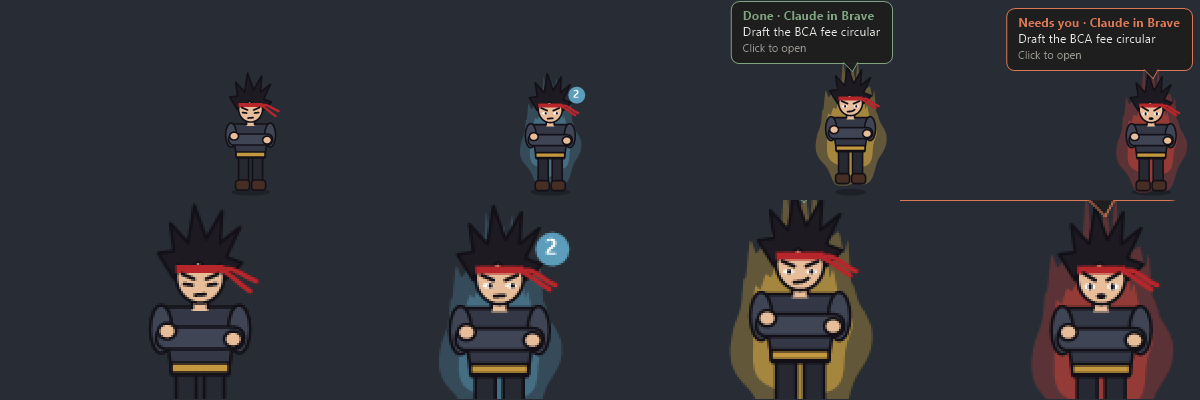
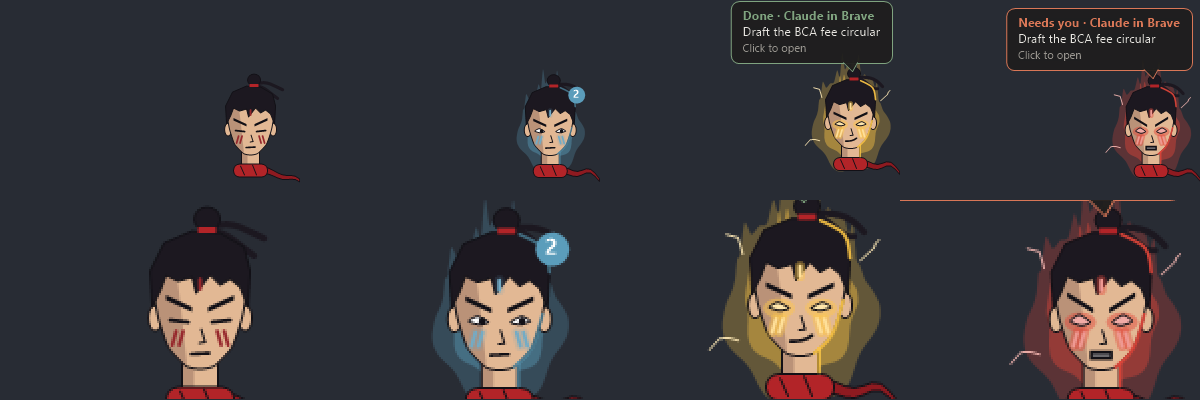
Redraw the desk pet as a fighter's face with a power-up of his own
The full-body figure read as a toy. The pet is now a close-up of an
original fighter: hair swept back into a topknot, war marks on his
cheeks and brow, a red scarf trailing in the aura's wind. His eyes stay
shut at rest. While a task works his marks glow blue. When one finishes
his eyes blaze gold with sparks, and when one needs you they burn red
with gritted teeth.

diff --git a/desktop/Pet.cs b/desktop/Pet.cs
@@ -1,15 +1,15 @@
-// The desk pet: a small fighter in a corner of the screen that shows what
+// The desk pet: a fighter's face in a corner of the screen that shows what
 // the task board knows without opening it.
 //
-// He stands with his arms crossed and his eyes shut while nothing runs. While
-// any Claude or ChatGPT task works, a blue aura burns around him. When one
-// finishes it flares gold, and when one needs you it pulses red, with a bubble
-// naming the task. The bubble stays until you click him, which brings that
+// His eyes stay shut while nothing runs. While any Claude or ChatGPT task
+// works, a blue aura burns around him and his war marks glow. When one
+// finishes the aura flares gold and his eyes blaze, and when one needs you it
+// all burns red, with a bubble naming the task. The bubble stays until you click him, which brings that
 // task's app forward. A tray balloon was the only signal before, and Windows
 // hides those under Do not disturb and drops them after a few seconds.
 //
 // The window is a layered window drawn with per-pixel alpha, so only the
-// fighter and his bubble catch the mouse and everything around them clicks
+// face and his bubble catch the mouse and everything around them clicks
 // through.
 
 using System;
@@ -28,18 +28,15 @@ public class PetForm : Form
 {
     enum Mood { Resting, Working, Done, Needs }
 
-    // The canvas, in pixels at 100% scaling. The fighter stands bottom right
+    // The canvas, in pixels at 100% scaling. His face sits bottom right
     // and the bubble sits above him, so the window can hug the screen corner.
-    const int W = 300, H = 200, Stand = 84;
+    const int W = 300, H = 200, Span = 84;
 
-    static readonly Color Skin = Color.FromArgb(232, 190, 154);
-    static readonly Color Hair = Color.FromArgb(30, 26, 34);
-    static readonly Color Coat = Color.FromArgb(52, 56, 70);
-    static readonly Color Sleeve = Color.FromArgb(64, 69, 86);
-    static readonly Color Trousers = Color.FromArgb(38, 40, 50);
-    static readonly Color Boots = Color.FromArgb(70, 46, 36);
-    static readonly Color Band = Color.FromArgb(182, 38, 42);
-    static readonly Color Belt = Color.FromArgb(196, 152, 62);
+    static readonly Color Skin = Color.FromArgb(226, 184, 148);
+    static readonly Color Hair = Color.FromArgb(28, 24, 32);
+    static readonly Color Scarf = Color.FromArgb(178, 36, 40);
+    static readonly Color ScarfDark = Color.FromArgb(142, 26, 32);
+    static readonly Color Mark = Color.FromArgb(150, 40, 44);
     static readonly Color Ink = Color.FromArgb(18, 16, 22);
     static readonly Color Blue = Color.FromArgb(91, 157, 187);
     static readonly Color Gold = Color.FromArgb(255, 200, 70);
@@ -293,18 +290,13 @@ public class PetForm : Form
             shake = (float)Math.Sin(t * 53) * 0.8f;
         }
 
-        float cx = W - 8 - Stand / 2f + shake, ground = H - 8;
-
-        using (SolidBrush b = new SolidBrush(Color.FromArgb(70, 0, 0, 0)))
-        {
-            float sw = 40 * (1 - lift / 30f);
-            g.FillEllipse(b, cx - sw / 2, ground - 4, sw, 7);
-        }
+        float cx = W - 8 - Span / 2f + shake, ground = H - 8;
 
         GraphicsState saved = g.Save();
         g.TranslateTransform(cx, ground - 2 - lift);
         if (aura != Color.Empty) DrawAura(g, t, aura, power);
-        DrawFighter(g, t, mood);
+        if (mood == Mood.Needs || (mood == Mood.Done && since < 3)) DrawSparks(g, t, aura, power);
+        DrawFace(g, t, mood, aura);
         g.Restore(saved);
 
         float top = ground - 2 - lift - 112;
@@ -319,7 +311,7 @@ public class PetForm : Form
         for (int layer = 0; layer < 2; layer++)
         {
             float s = layer == 0 ? 1f : 0.74f;
-            float rx = 36 * power * s, ry = 56 * power * s, cy = -50;
+            float rx = 40 * power * s, ry = 52 * power * s, cy = -62;
             PointF[] pts = new PointF[56];
             for (int i = 0; i < pts.Length; i++)
             {
@@ -336,117 +328,217 @@ public class PetForm : Form
         }
     }
 
-    // Origin at his feet, y going up as it goes negative.
-    void DrawFighter(Graphics g, double t, Mood mood)
+    // A close-up of his head, origin below the scarf, y going up as it goes
+    // negative. At rest his eyes are shut. With his power up the war marks on
+    // his cheeks and brow light in the aura's colour, and when a task finishes
+    // or needs you his eyes blaze with it too.
+    void DrawFace(Graphics g, double t, Mood mood, Color aura)
     {
-        bool charged = mood != Mood.Resting;
-        using (Pen line = new Pen(Ink, 1.6f))
+        bool blazing = mood == Mood.Done || mood == Mood.Needs;
+        float wind = mood == Mood.Resting ? 0.3f : 1f;
+        using (Pen line = new Pen(Ink, 1.5f))
         using (SolidBrush ink = new SolidBrush(Ink))
         using (SolidBrush skin = new SolidBrush(Skin))
+        using (SolidBrush shade = new SolidBrush(Color.FromArgb(55, 40, 10, 20)))
         {
             line.LineJoin = LineJoin.Round;
 
-            // Legs, planted apart, and boots.
-            using (SolidBrush b = new SolidBrush(Trousers))
+            // The topknot's tail and the scarf's ends stream out behind him.
+            float sway = (float)Math.Sin(t * (1.5 + 5 * wind)) * 3 * wind;
+            using (Pen tail = new Pen(Hair, 3.2f))
             {
-                g.FillRectangle(b, -12, -36, 10, 28); g.DrawRectangle(line, -12, -36, 10, 28);
-                g.FillRectangle(b, 2, -36, 10, 28); g.DrawRectangle(line, 2, -36, 10, 28);
+                tail.StartCap = tail.EndCap = LineCap.Round;
+                g.DrawBezier(tail, 6, -106, 16, -110 + sway, 24, -104 - sway, 32, -100 + sway);
+                g.DrawBezier(tail, 6, -104, 14, -104 - sway, 20, -96 + sway, 27, -92 - sway);
             }
-            using (SolidBrush b = new SolidBrush(Boots))
+            PointF[] ribbon = Ribbon(t, wind, 14, -20);
+            using (SolidBrush b = new SolidBrush(ScarfDark)) g.FillPolygon(b, ribbon);
+            g.DrawPolygon(line, ribbon);
+
+            // Neck.
+            g.FillRectangle(skin, -9, -40, 18, 22);
+            g.FillRectangle(shade, -9, -40, 6, 22);
+            g.DrawLine(line, -9, -40, -9, -20);
+            g.DrawLine(line, 9, -40, 9, -20);
+
+            // Ears, then the face: a long, angular jaw.
+            g.FillEllipse(skin, -26, -67, 7, 13); g.DrawEllipse(line, -26, -67, 7, 13);
+            g.FillEllipse(skin, 19, -67, 7, 13); g.DrawEllipse(line, 19, -67, 7, 13);
+            PointF[] face =
             {
-                RectangleF l = new RectangleF(-15, -10, 14, 10), r = new RectangleF(1, -10, 14, 10);
-                using (GraphicsPath p = Rounded(l, 3)) { g.FillPath(b, p); g.DrawPath(line, p); }
-                using (GraphicsPath p = Rounded(r, 3)) { g.FillPath(b, p); g.DrawPath(line, p); }
-            }
+                new PointF(-22, -84), new PointF(22, -84), new PointF(21.5f, -63), new PointF(16, -46),
+                new PointF(7, -36.5f), new PointF(0, -35), new PointF(-7, -36.5f), new PointF(-16, -46), new PointF(-21.5f, -63)
+            };
+            g.FillClosedCurve(skin, face, FillMode.Alternate, 0.25f);
+            PointF[] cheek = { new PointF(-22, -82), new PointF(-12, -82), new PointF(-8, -50), new PointF(-7, -36.5f), new PointF(-16, -46), new PointF(-21.5f, -63) };
+            g.FillClosedCurve(shade, cheek, FillMode.Alternate, 0.25f);
+            g.DrawClosedCurve(line, face, 0.25f, FillMode.Alternate);
 
-            // Coat, shoulders wider than the waist, with a belt.
-            PointF[] coat = { new PointF(-19, -66), new PointF(19, -66), new PointF(14, -32), new PointF(-14, -32) };
-            using (SolidBrush b = new SolidBrush(Coat)) g.FillPolygon(b, coat);
-            g.DrawPolygon(line, coat);
-            using (SolidBrush b = new SolidBrush(Belt)) g.FillRectangle(b, -14.5f, -38, 29, 5);
-            g.DrawRectangle(line, -14.5f, -38, 29, 5);
+            // The scarf wound round his neck.
+            RectangleF wrap = new RectangleF(-17, -26, 34, 13);
+            using (GraphicsPath p = Rounded(wrap, 6))
+            using (SolidBrush b = new SolidBrush(Scarf)) { g.FillPath(b, p); g.DrawPath(line, p); }
+            g.DrawLine(line, -10, -24, -6, -15);
+            g.DrawLine(line, 2, -25, 6, -15);
 
-            // Arms crossed over the chest.
-            using (SolidBrush b = new SolidBrush(Sleeve))
-            {
-                g.FillEllipse(b, -25, -67, 11, 24); g.DrawEllipse(line, -25, -67, 11, 24);
-                g.FillEllipse(b, 14, -67, 11, 24); g.DrawEllipse(line, 14, -67, 11, 24);
-                RectangleF bar = new RectangleF(-22, -56, 44, 11);
-                using (GraphicsPath p = Rounded(bar, 5)) { g.FillPath(b, p); g.DrawPath(line, p); }
-            }
-            g.FillEllipse(skin, -21, -58, 9, 8); g.DrawEllipse(line, -21, -58, 9, 8);
-            g.FillEllipse(skin, 12, -54, 9, 8); g.DrawEllipse(line, 12, -54, 9, 8);
-
-            // Neck and head.
-            g.FillRectangle(skin, -4, -71, 8, 7);
-            g.DrawLine(line, -4, -71, -4, -65); g.DrawLine(line, 4, -71, 4, -65);
-            g.FillEllipse(skin, -12, -94, 24, 26);
-            g.DrawEllipse(line, -12, -94, 24, 26);
-
-            // Hair swept up in spikes, which stir when his power is up.
-            float stir = charged ? (float)Math.Sin(t * 13) * 0.8f : 0;
+            // Hair swept straight back into a topknot, a few locks falling forward.
             PointF[] hair =
             {
-                new PointF(-13, -80), new PointF(-21, -93 + stir), new PointF(-13, -94),
-                new PointF(-15, -108 + stir), new PointF(-6, -98), new PointF(-3, -117 - stir),
-                new PointF(3, -100), new PointF(11, -114 + stir), new PointF(10, -98),
-                new PointF(20, -106 - stir), new PointF(13, -91), new PointF(21, -88 + stir),
-                new PointF(13, -80), new PointF(10, -87), new PointF(4, -85),
-                new PointF(-1, -89), new PointF(-6, -85), new PointF(-11, -87)
+                new PointF(-24, -66), new PointF(-25, -84), new PointF(-18, -98), new PointF(-4, -104),
+                new PointF(10, -103), new PointF(22, -96), new PointF(25, -84), new PointF(24, -66),
+                new PointF(20, -76), new PointF(15, -80), new PointF(10, -77), new PointF(5, -82),
+                new PointF(-2, -73), new PointF(-4, -81), new PointF(-11, -79), new PointF(-17, -82), new PointF(-20, -74)
             };
             using (SolidBrush b = new SolidBrush(Hair)) g.FillPolygon(b, hair);
             g.DrawPolygon(line, hair);
+            using (SolidBrush b = new SolidBrush(Hair)) g.FillEllipse(b, -3, -116, 13, 12);
+            g.DrawEllipse(line, -3, -116, 13, 12);
+            using (SolidBrush b = new SolidBrush(Scarf)) g.FillRectangle(b, -1, -106, 9, 3);
 
-            // Headband, its tails trailing to one side.
-            using (SolidBrush b = new SolidBrush(Band)) g.FillRectangle(b, -12, -87, 24, 4);
-            float wave = (float)Math.Sin(t * (charged ? 6 : 1.5)) * (charged ? 3 : 1);
-            using (Pen tail = new Pen(Band, 2.4f))
+            // Light from the aura catches the far edge of his hair, face and neck.
+            if (aura != Color.Empty)
+                using (Pen rim = new Pen(Color.FromArgb(blazing ? 230 : 160, aura), 1.6f))
+                {
+                    rim.StartCap = rim.EndCap = LineCap.Round;
+                    g.DrawCurve(rim, new PointF[] { new PointF(10, -103), new PointF(22, -96), new PointF(25, -84) }, 0.5f);
+                    g.DrawCurve(rim, new PointF[] { new PointF(21.5f, -63), new PointF(16, -46), new PointF(7, -36.5f) }, 0.5f);
+                    g.DrawLine(rim, 9.5f, -39, 9.5f, -27);
+                }
+
+            // War marks: two strokes down each cheek and one on the brow.
+            // Dark red at rest, lit in the aura's colour once his power is up.
+            Color markColour = aura == Color.Empty ? Mark : Blend(aura, Color.White, blazing ? 0.45f : 0.15f);
+            if (aura != Color.Empty)
             {
-                tail.StartCap = tail.EndCap = LineCap.Round;
-                g.DrawBezier(tail, 12, -85, 18, -86, 22, -82 + wave, 28, -80 + wave);
-                g.DrawBezier(tail, 12, -84, 17, -81, 20, -76 - wave, 25, -73 - wave);
+                float glow = blazing ? 1f : 0.6f + 0.25f * (float)Math.Sin(t * 4);
+                using (Pen halo = new Pen(Color.FromArgb((int)(110 * glow), aura), 5f))
+                {
+                    halo.StartCap = halo.EndCap = LineCap.Round;
+                    Marks(g, halo);
+                }
+            }
+            using (Pen mark = new Pen(markColour, 1.8f))
+            {
+                mark.StartCap = mark.EndCap = LineCap.Round;
+                Marks(g, mark);
             }
 
-            // The face. Brows always set hard; the eyes and mouth carry the mood.
-            using (Pen brow = new Pen(Ink, 1.8f))
+            // Brows: heavy, set hard, steeper when something needs you.
+            float steep = mood == Mood.Needs ? 5f : 3f;
+            PointF[] browL = { new PointF(-17, -69 - steep), new PointF(-4, -66), new PointF(-4, -63.6f), new PointF(-17, -66.5f - steep) };
+            PointF[] browR = { new PointF(17, -69 - steep), new PointF(4, -66), new PointF(4, -63.6f), new PointF(17, -66.5f - steep) };
+            g.FillPolygon(ink, browL);
+            g.FillPolygon(ink, browR);
+
+            // Eyes.
+            if (mood == Mood.Resting)
             {
-                brow.StartCap = brow.EndCap = LineCap.Round;
-                float steep = mood == Mood.Needs ? 2.6f : 1.6f;
-                g.DrawLine(brow, -9, -81 - steep, -3, -80);
-                g.DrawLine(brow, 3, -80, 9, -81 - steep);
-
-                if (mood == Mood.Resting)
+                using (Pen lid = new Pen(Ink, 1.8f))
                 {
-                    g.DrawLine(brow, -8, -77.5f, -4, -77);
-                    g.DrawLine(brow, 4, -77, 8, -77.5f);
+                    lid.StartCap = lid.EndCap = LineCap.Round;
+                    g.DrawLine(lid, -15, -59.5f, -6, -58.5f);
+                    g.DrawLine(lid, 6, -58.5f, 15, -59.5f);
                 }
-                else
+            }
+            else
+            {
+                float open = mood == Mood.Needs ? 5.5f : 4.2f;
+                if (mood == Mood.Working && (t % 4.3) < 0.1) open = 0.8f;
+                foreach (int side in new int[] { -1, 1 })
                 {
-                    float open = mood == Mood.Needs ? 3.4f : 2.4f;
-                    // A blink now and then while he works.
-                    if (mood == Mood.Working && (t % 4.3) < 0.1) open = 0.6f;
-                    g.FillEllipse(Brushes.White, -8.5f, -78.5f, 5.5f, open);
-                    g.FillEllipse(Brushes.White, 3, -78.5f, 5.5f, open);
-                    float look = mood == Mood.Working ? (float)Math.Sin(t * 0.8) * 1.2f : 0;
-                    g.FillEllipse(ink, -6.6f + look, -78.6f, 2.2f, open + 0.2f);
-                    g.FillEllipse(ink, 4.6f + look, -78.6f, 2.2f, open + 0.2f);
+                    PointF[] eye =
+                    {
+                        new PointF(side * 15.5f, -59.5f), new PointF(side * 11, -59.5f - open * 0.6f),
+                        new PointF(side * 5.5f, -59f), new PointF(side * 10, -59.5f + open * 0.4f)
+                    };
+                    if (blazing)
+                    {
+                        // No pupils, only light.
+                        using (SolidBrush halo = new SolidBrush(Color.FromArgb(120, aura)))
+                            g.FillEllipse(halo, side * 10.5f - 8, -64, 16, 10);
+                        using (SolidBrush b = new SolidBrush(Blend(aura, Color.White, 0.55f)))
+                            g.FillClosedCurve(b, eye, FillMode.Alternate, 0.3f);
+                    }
+                    else
+                    {
+                        g.FillClosedCurve(Brushes.White, eye, FillMode.Alternate, 0.3f);
+                        float look = (float)Math.Sin(t * 0.8) * 1.6f;
+                        g.FillEllipse(ink, side * 10 - 1.8f + look, -59.5f - open * 0.5f, 3.6f, open);
+                    }
+                    g.DrawClosedCurve(line, eye, 0.3f, FillMode.Alternate);
                 }
+            }
 
+            // Nose and mouth.
+            g.DrawLine(line, 0.5f, -55, 2.5f, -48.5f);
+            g.DrawLine(line, 2.5f, -48.5f, -0.5f, -48);
+            using (Pen lip = new Pen(Ink, 1.6f))
+            {
+                lip.StartCap = lip.EndCap = LineCap.Round;
                 if (mood == Mood.Done)
-                {
-                    // The smirk: one corner up.
-                    g.DrawBezier(brow, -3, -72, 0, -72, 2, -72.2f, 4, -74);
-                }
+                    g.DrawBezier(lip, -5, -42.5f, -1, -42.5f, 3, -42.8f, 6, -45.5f);
                 else if (mood == Mood.Needs)
                 {
-                    g.FillEllipse(ink, -2.5f, -73.5f, 5, 3);
+                    g.FillRectangle(Brushes.White, -5, -44, 10, 3);
+                    g.DrawRectangle(lip, -5, -44, 10, 3);
+                    g.DrawLine(line, -5, -42.5f, 5, -42.5f);
                 }
                 else
-                {
-                    g.DrawLine(brow, -2.5f, -72, 2.5f, -72.4f);
-                }
+                    g.DrawLine(lip, -4.5f, -42.5f, 4.5f, -43);
             }
         }
+    }
+
+    static void Marks(Graphics g, Pen p)
+    {
+        g.DrawLine(p, -12, -54, -14, -47);
+        g.DrawLine(p, -8.5f, -54, -10.5f, -47);
+        g.DrawLine(p, 12, -54, 14, -47);
+        g.DrawLine(p, 8.5f, -54, 10.5f, -47);
+        g.DrawLine(p, 0, -80, 0, -75);
+    }
+
+    // A strip of cloth trailing from (x, y), rippling harder in a stronger wind.
+    static PointF[] Ribbon(double t, float wind, float x0, float y0)
+    {
+        const int n = 9;
+        PointF[] pts = new PointF[n * 2];
+        for (int i = 0; i < n; i++)
+        {
+            float x = x0 + i * 4.4f;
+            float y = y0 + i * (1.8f - wind * 1.1f) + (float)Math.Sin(t * (2 + 6 * wind) - i * 0.9) * i * 0.5f * (0.4f + wind);
+            float half = 3.2f - i * 0.22f;
+            pts[i] = new PointF(x, y - half);
+            pts[n * 2 - 1 - i] = new PointF(x, y + half);
+        }
+        return pts;
+    }
+
+    // Short bolts that jump around him, a new set every eighth of a second.
+    static void DrawSparks(Graphics g, double t, Color c, float power)
+    {
+        Random r = new Random((int)(t * 8));
+        using (Pen p = new Pen(Color.FromArgb(235, Blend(c, Color.White, 0.6f)), 1.4f))
+        {
+            for (int k = 0; k < 3; k++)
+            {
+                double a = r.NextDouble() * Math.PI * 2;
+                float x = (float)Math.Cos(a) * 36 * power, y = -62 + (float)Math.Sin(a) * 46 * power;
+                PointF[] bolt = new PointF[4];
+                for (int i = 0; i < bolt.Length; i++)
+                {
+                    bolt[i] = new PointF(x, y);
+                    x += (float)(Math.Cos(a) * 5 + r.NextDouble() * 8 - 4);
+                    y += (float)(Math.Sin(a) * 5 + r.NextDouble() * 8 - 4);
+                }
+                g.DrawLines(p, bolt);
+            }
+        }
+    }
+
+    static Color Blend(Color a, Color b, float k)
+    {
+        return Color.FromArgb((int)(a.R + (b.R - a.R) * k), (int)(a.G + (b.G - a.G) * k), (int)(a.B + (b.B - a.B) * k));
     }
 
     void DrawCount(Graphics g, float cx, float top)

diff --git a/README.md b/README.md
@@ -99,16 +99,16 @@ If its notifications never appear, check Windows **Do not disturb**, the bell ic
 
 **The desk pet**
 
-A small fighter stands in the bottom-right corner of the screen, above the taskbar, and shows what the board knows without opening it. Do not disturb does not hide him, and he does not go away after six seconds the way a banner does.
+A fighter's face sits in the bottom-right corner of the screen, above the taskbar, and shows what the board knows without opening it. Do not disturb does not hide him, and he does not go away after six seconds the way a banner does.
 
 ![The pet resting, working on two tasks, after a finish, and when a task needs you](docs/screenshots/pet-states.png)
 
 | He shows | When |
 |---|---|
-| Arms crossed, eyes shut | Nothing is running |
-| A blue aura, with a count if more than one task runs | Any Claude or ChatGPT task is working |
-| A gold aura, a smirk and a green bubble naming the task | A task finished while you were in another app |
-| A red aura, a glare and an orange bubble | A task needs your approval or answer |
+| Eyes shut, no aura | Nothing is running |
+| A blue aura and glowing war marks, with a count if more than one task runs | Any Claude or ChatGPT task is working |
+| A gold flare with sparks, blazing eyes, a smirk and a green bubble naming the task | A task finished while you were in another app |
+| A red aura with sparks, burning eyes, gritted teeth and an orange bubble | A task needs your approval or answer |
 
 The bubble stays until you click him, which brings that task's app forward. Clicking him with no bubble opens the task list. A task that finishes in the app you are already looking at gets a four-second flare and no sound, so a Code session in front of you does not nag. Drag him anywhere; he keeps the spot. Right-click for **Tasks**, **Dismiss**, **Sound** and **Hide pet**, and bring him back from the tray menu's **Pet**. His position and sound setting live in `%LOCALAPPDATA%\PromptAdvisor\pet.txt`.
 
